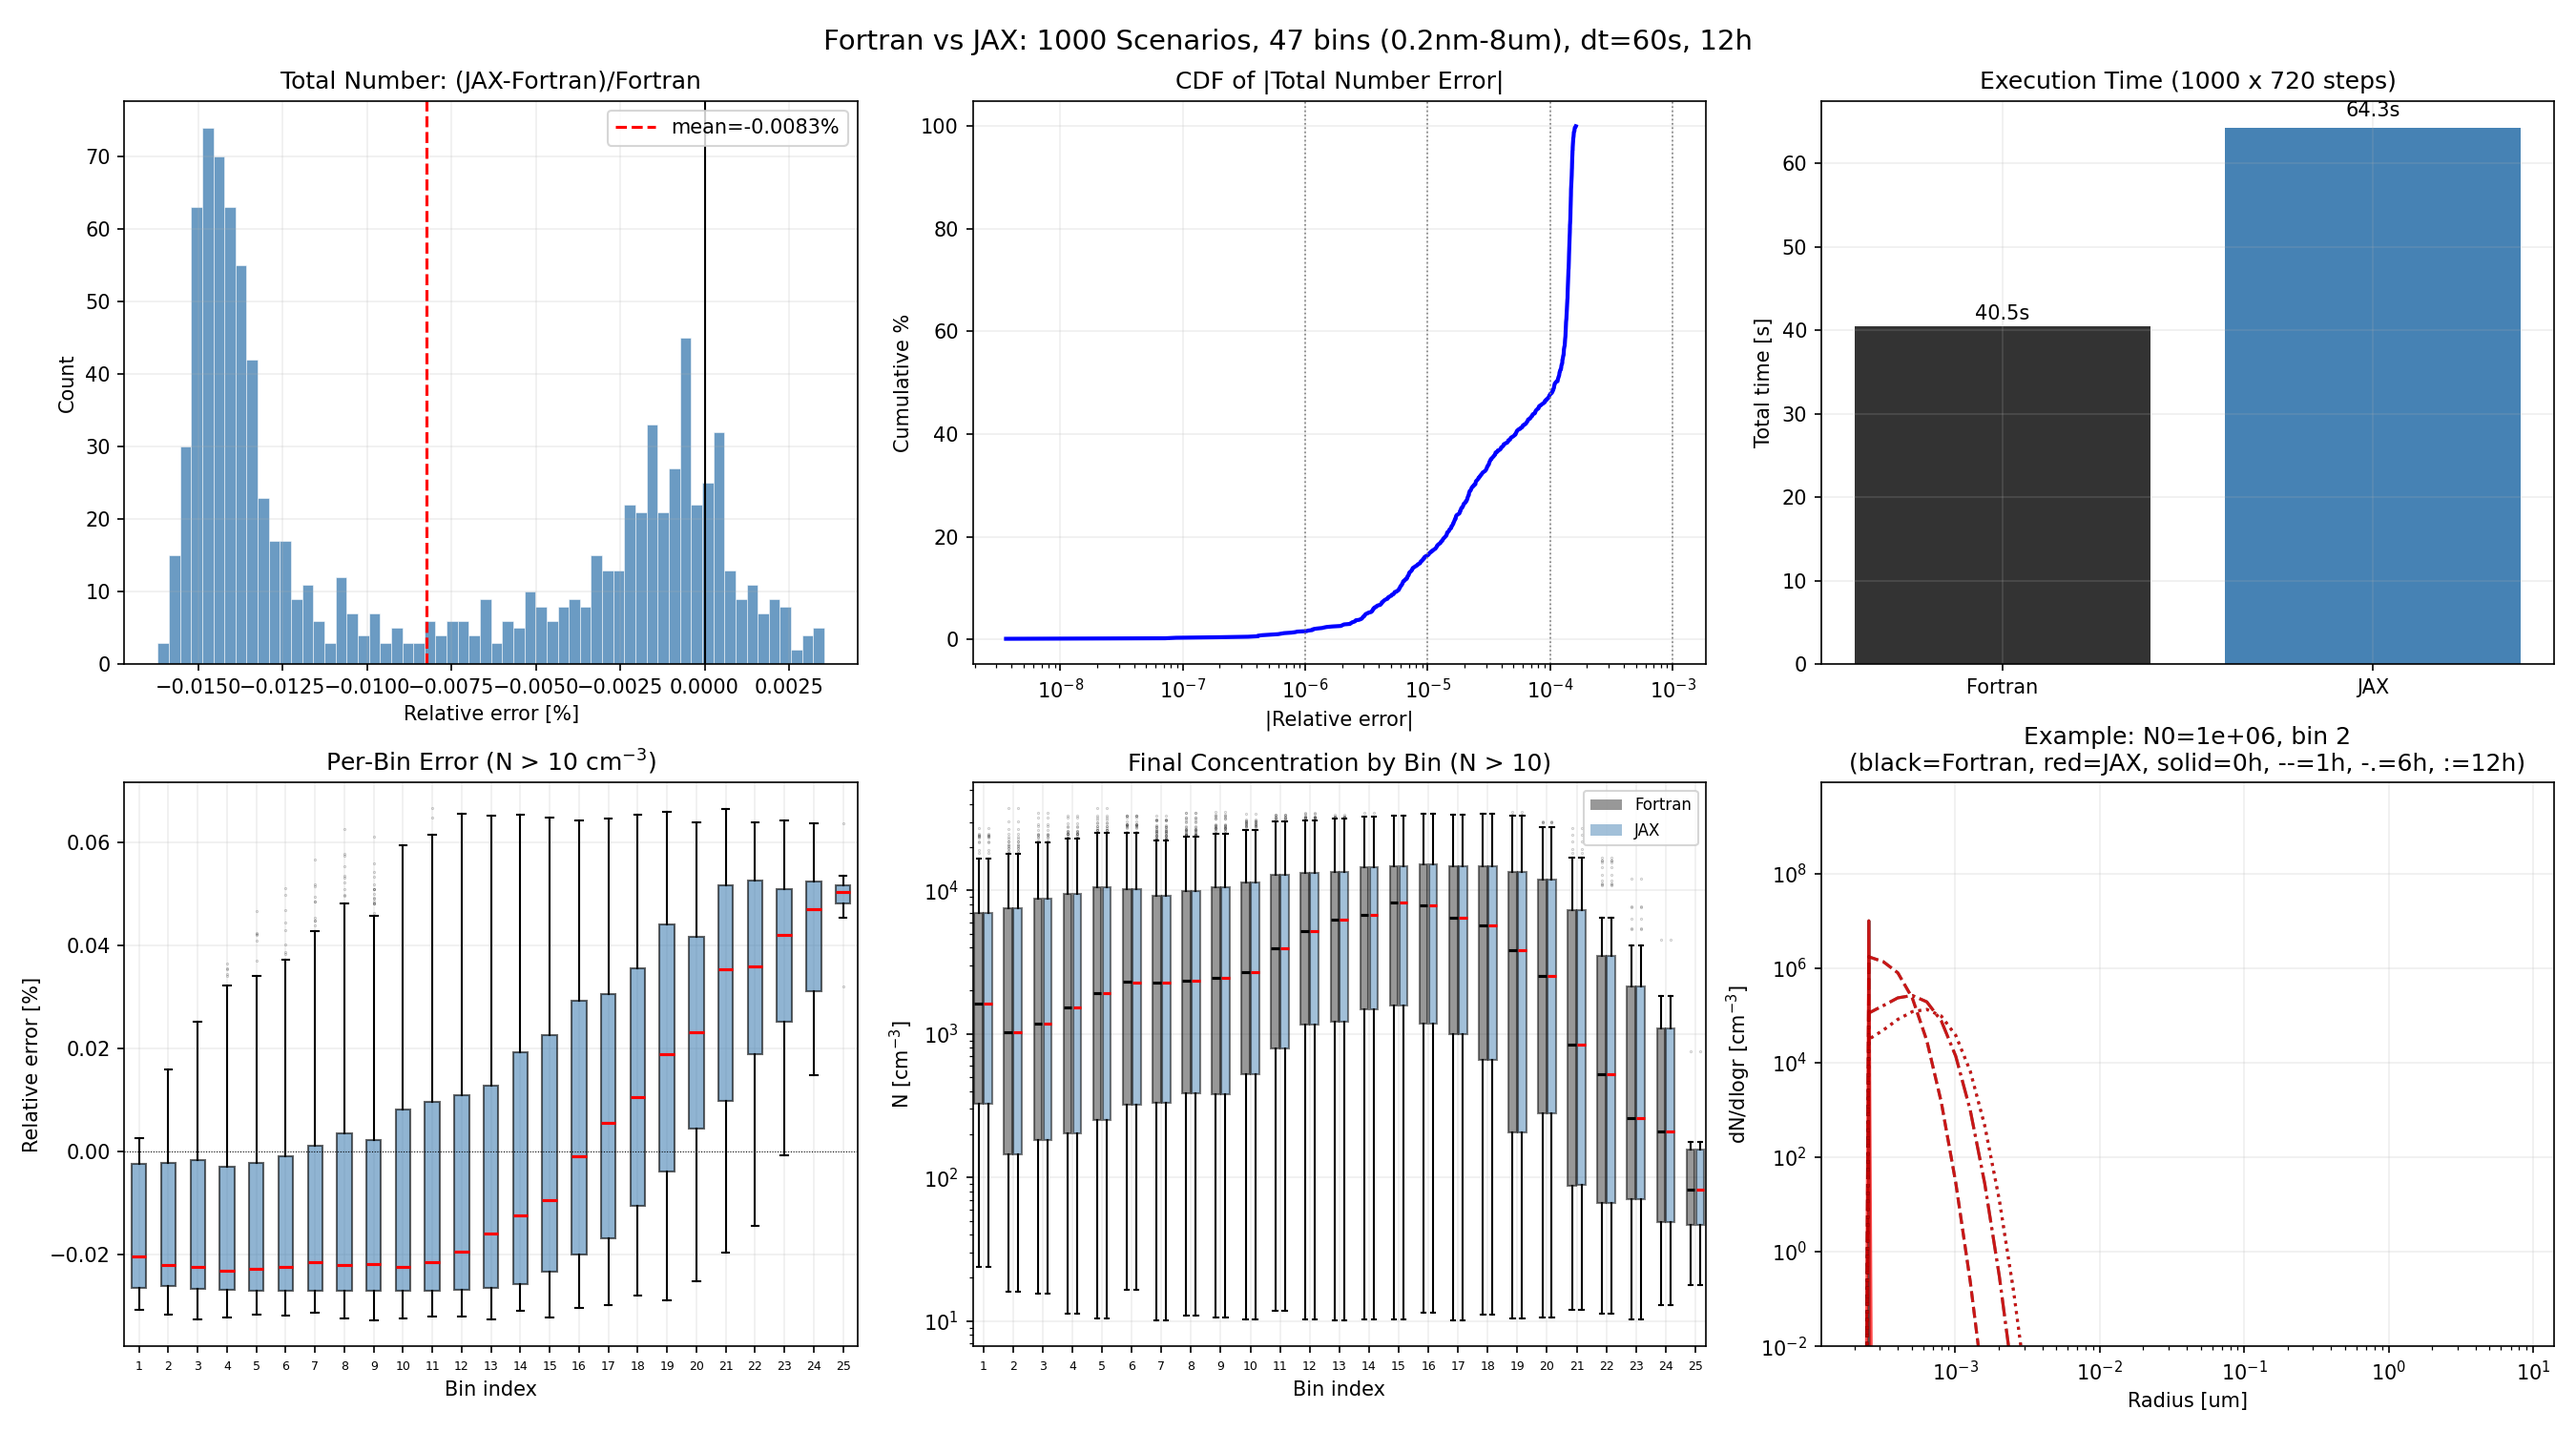
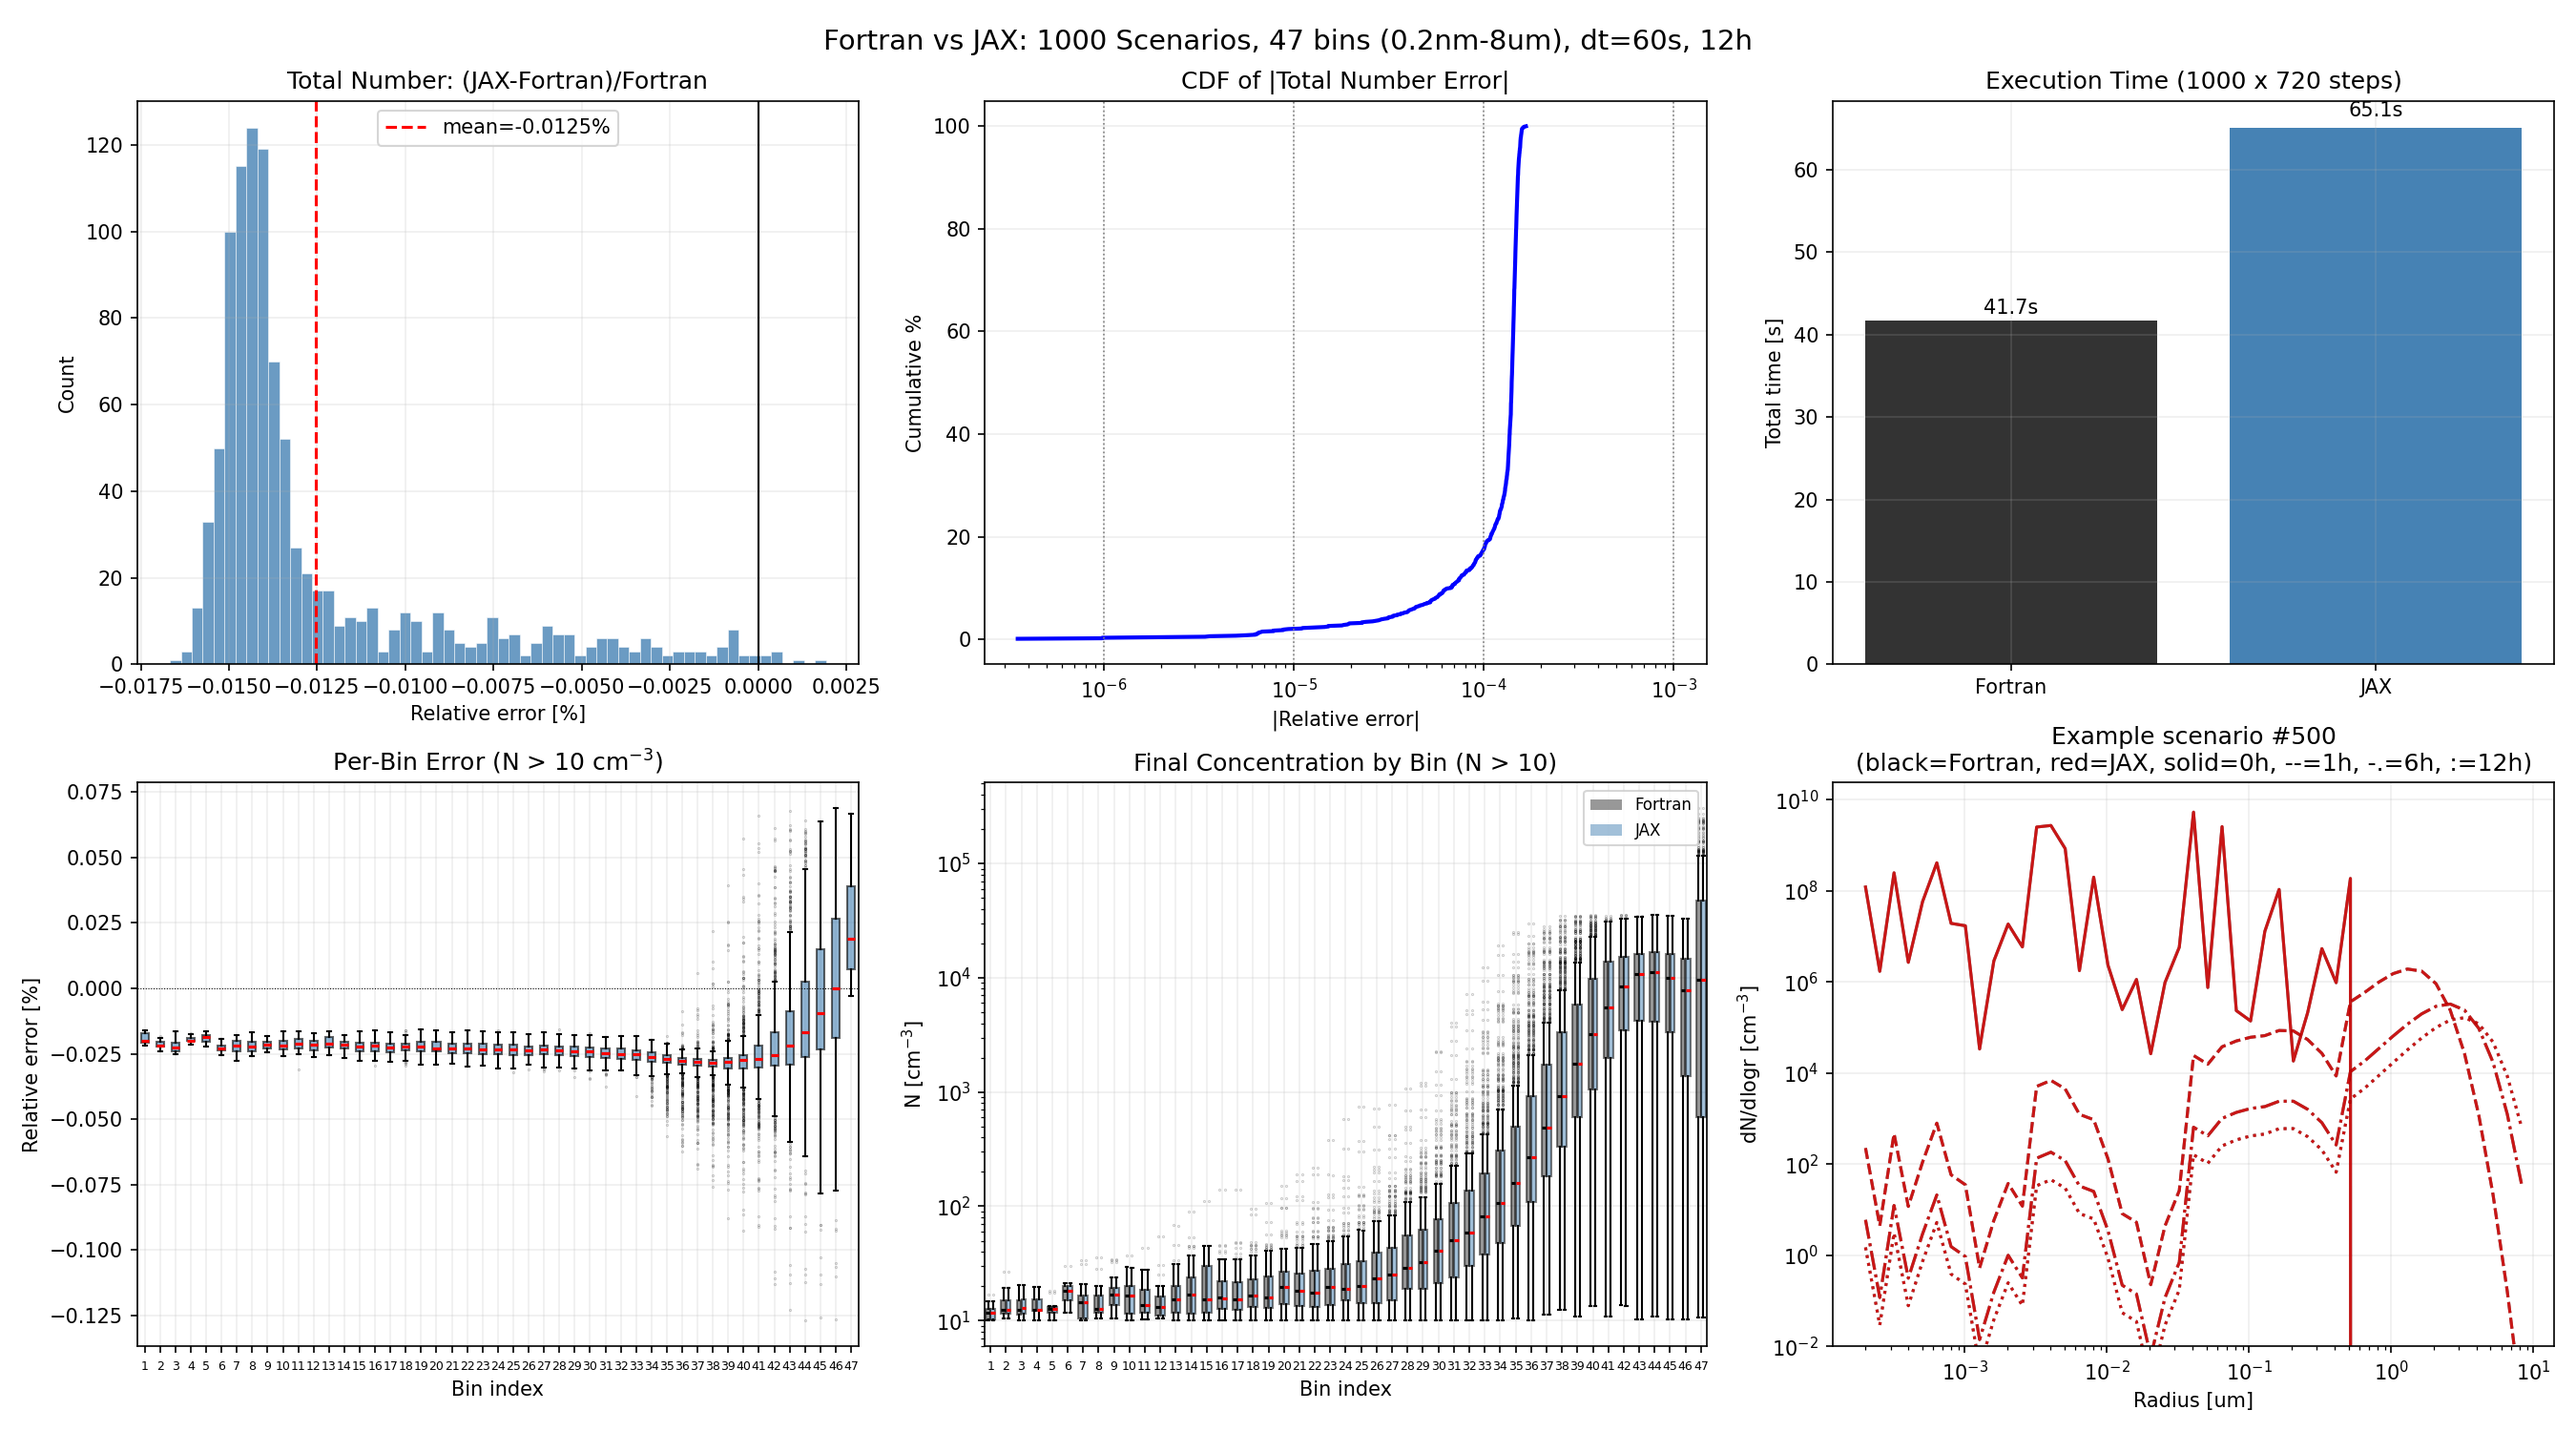
Multi-bin initial conditions: 1000 scenarios, bins 1-35 all populated
Each of 35 bins gets random 1e3-1e9 cm^-3 independently per scenario.
Much harder test than monodisperse — all bins interact simultaneously.

Results:
- 100% below 1.7e-4 total number error (0.017%)
- Mass error max 4.3e-5
- Error comparable to monodisperse case — no degradation
- Fortran test updated to read per-bin concentrations from init_nd.txt

diff --git a/scripts/fortran_vs_jax_47bin.py b/scripts/fortran_vs_jax_47bin.py
@@ -67,11 +67,21 @@ def parse_output(filepath, nbin):
     return np.array(times), np.array(data), radii
 
 
-def run_fortran(n0, ck0, init_bin):
-    nml = (f"&coag_params param_n0={n0:.6e}, param_ck0={ck0:.6e}, "
+def run_fortran(init_nd, ck0):
+    """Run Fortran with per-bin initial concentrations.
+
+    Args:
+        init_nd: (NBIN,) array of initial number concentrations [cm^-3].
+        ck0: Constant coagulation kernel [cm^3/s].
+    """
+    nml = (f"&coag_params param_n0=0.0, param_ck0={ck0:.6e}, "
            f"param_dtime={DT:.6e}, param_nstep={NSTEP}, "
-           f"param_init_bin={init_bin} /\n")
+           f"param_init_bin=1 /\n")
     (FORTRAN_DIR / "coag_params.nml").write_text(nml)
+    # Write per-bin initial concentrations
+    nd_lines = "\n".join(f"{v:.6e}" for v in init_nd)
+    (FORTRAN_DIR / "init_nd.txt").write_text(nd_lines + "\n")
+
     t0 = timer.time()
     result = subprocess.run(
         [str(FORTRAN_EXE)], cwd=str(FORTRAN_DIR),
@@ -84,10 +94,16 @@ def run_fortran(n0, ck0, init_bin):
     return times, nd, radii, t1 - t0
 
 
-def run_jax(n0, ck0, init_bin, microslow_fn, zmet, rmass_jnp):
+def run_jax(init_nd, ck0, microslow_fn, zmet):
+    """Run JAX with per-bin initial concentrations.
+
+    Args:
+        init_nd: (NBIN,) array of initial number concentrations [cm^-3].
+        ck0: Constant coagulation kernel [cm^3/s].
+    """
     ckernel = jnp.full((NZ, NBIN, NBIN, 1, 1), DTYPE(ck0), dtype=DTYPE)
     pc = jnp.full((NZ, NBIN, NELEM), SMALL_PC, dtype=DTYPE)
-    pc = pc.at[0, init_bin - 1, 0].set(DTYPE(n0))
+    pc = pc.at[0, :, 0].set(jnp.array(init_nd, dtype=DTYPE))
 
     nd_history = [np.array(pc[0, :, 0])]
     t0 = timer.time()
@@ -154,12 +170,17 @@ def main():
     _ = microslow_fn(pc_w, pc_w, ck_w, pcon_w, zmet, DTYPE(DT))
     print("Done.", flush=True)
 
-    # Random parameters
-    log_N0 = np.random.uniform(2, 9, n_scenarios)
-    N0_arr = 10.0 ** log_N0
-    init_bins = np.random.randint(1, 10, n_scenarios)  # bins 1-9 (0.2nm to 1.6nm)
+    # Random parameters — multi-bin initial conditions
     T_ref = np.random.uniform(150, 400, n_scenarios)
     ck0_arr = 8.0 * 1.38054e-16 * T_ref / (3.0 * 1.85e-4)
+
+    # Generate random per-bin initial concentrations for each scenario
+    # Each bin in 1-35 gets 10^3 to 10^9 cm^-3 randomly
+    all_init_nd = np.zeros((n_scenarios, NBIN))
+    for i in range(n_scenarios):
+        for b in range(35):  # bins 0-34 (1-35 in 1-based)
+            log_n = np.random.uniform(3, 9)  # 1e3 to 1e9
+            all_init_nd[i, b] = 10.0 ** log_n
 
     # Storage
     fortran_time_total = 0.0
@@ -172,18 +193,17 @@ def main():
 
     r_np = np.array(r)
 
-    print(f"Running {n_scenarios} scenarios (47 bins, dt=60s, 12h)...", flush=True)
+    print(f"Running {n_scenarios} scenarios (47 bins, all bins 1-35 populated, dt=60s, 12h)...", flush=True)
     t_total = timer.time()
 
     for i in range(n_scenarios):
-        n0 = N0_arr[i]
-        ib = init_bins[i]
+        init_nd = all_init_nd[i]
         ck0 = ck0_arr[i]
 
-        f_times, f_nd, f_radii, f_elapsed = run_fortran(n0, ck0, ib)
+        f_times, f_nd, f_radii, f_elapsed = run_fortran(init_nd, ck0)
         fortran_time_total += f_elapsed
 
-        j_times, j_nd, j_elapsed = run_jax(n0, ck0, ib, microslow_fn, zmet, rmass)
+        j_times, j_nd, j_elapsed = run_jax(init_nd, ck0, microslow_fn, zmet)
         jax_time_total += j_elapsed
 
         f_final = f_nd[-1]
@@ -217,8 +237,8 @@ def main():
     print(f"\n--- Setup ---")
     print(f"  Bins: {NBIN} (0.2nm to 8um, rmrat=2)")
     print(f"  Timestep: {DT}s, Steps: {NSTEP}, Total: 12 hours")
-    print(f"  N0 range: [{N0_arr.min():.1e}, {N0_arr.max():.1e}] cm^-3")
-    print(f"  Init bins: 1-9 (0.2nm to 1.6nm)")
+    print(f"  Init: bins 1-35 each get 1e3 to 1e9 cm^-3 randomly")
+    print(f"  Total init N range: [{all_init_nd.sum(axis=1).min():.1e}, {all_init_nd.sum(axis=1).max():.1e}]")
     print(f"\n--- Timing ---")
     print(f"  Fortran: {fortran_time_total:.1f}s ({fortran_time_total/n_scenarios*1000:.1f} ms/scenario)")
     print(f"  JAX:     {jax_time_total:.1f}s ({jax_time_total/n_scenarios*1000:.1f} ms/scenario)")
@@ -340,13 +360,11 @@ def main():
 
     # 6. Example evolution: one scenario
     ax = axes[1, 2]
-    # Pick a mid-range scenario
-    ex_idx = np.argmin(np.abs(N0_arr - 1e6))
-    ex_n0 = N0_arr[ex_idx]
-    ex_ib = init_bins[ex_idx]
+    ex_idx = n_scenarios // 2  # Pick middle scenario
     ex_ck0 = ck0_arr[ex_idx]
-    f_t, f_nd_ex, _, _ = run_fortran(ex_n0, ex_ck0, ex_ib)
-    j_t, j_nd_ex, _ = run_jax(ex_n0, ex_ck0, ex_ib, microslow_fn, zmet, rmass)
+    ex_init = all_init_nd[ex_idx]
+    f_t, f_nd_ex, _, _ = run_fortran(ex_init, ex_ck0)
+    j_t, j_nd_ex, _ = run_jax(ex_init, ex_ck0, microslow_fn, zmet)
 
     # Plot dN/dlogr at t=0, 1h, 6h, 12h
     dlogr = np.log10(r_np[1] / r_np[0])
@@ -360,7 +378,7 @@ def main():
     ax.set_ylim(bottom=1e-2)
     ax.set_xlabel("Radius [um]")
     ax.set_ylabel("dN/dlogr [cm$^{-3}$]")
-    ax.set_title(f"Example: N0={ex_n0:.0e}, bin {ex_ib}\n(black=Fortran, red=JAX, solid=0h, --=1h, -.=6h, :=12h)")
+    ax.set_title(f"Example scenario #{ex_idx}\n(black=Fortran, red=JAX, solid=0h, --=1h, -.=6h, :=12h)")
     ax.grid(True, alpha=0.2)
 
     fig.suptitle(f"Fortran vs JAX: {n_scenarios} Scenarios, 47 bins (0.2nm-8um), dt=60s, 12h", fontsize=14)
